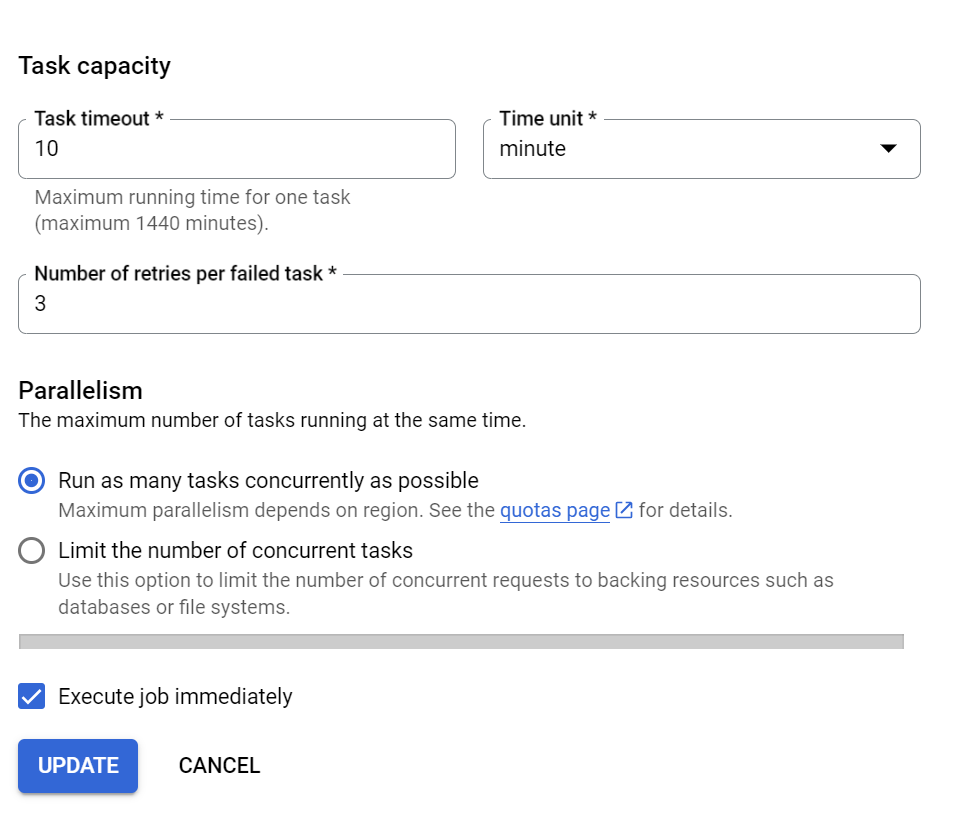
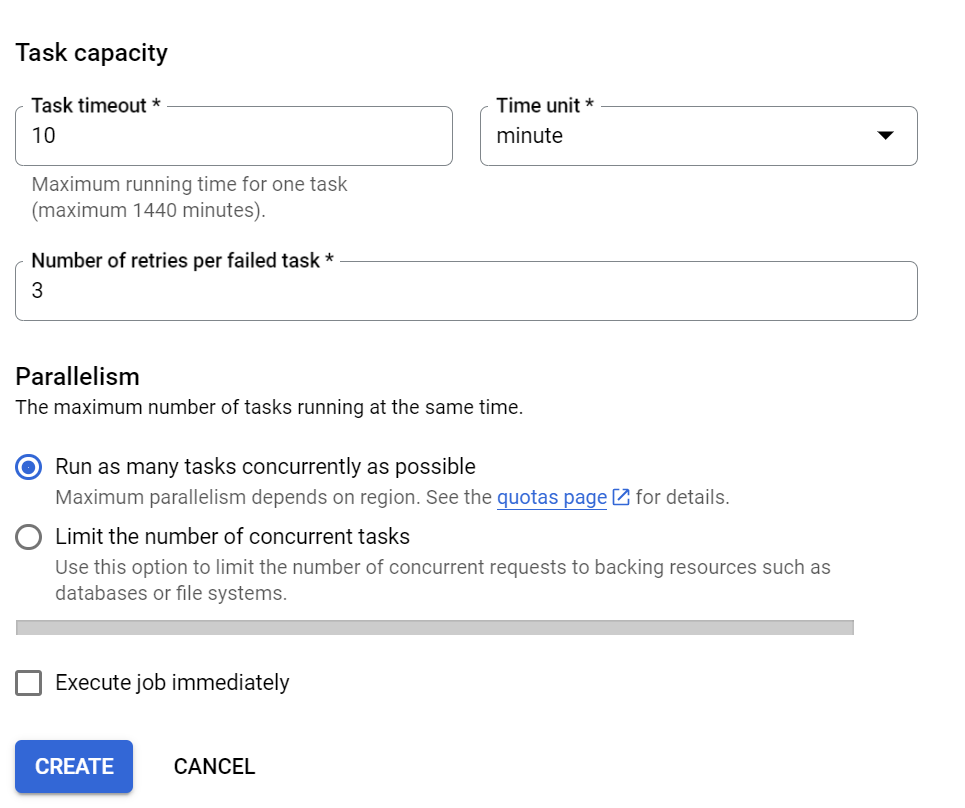
fixed one image

diff --git a/custom_dc/data_cloud.md b/custom_dc/data_cloud.md
@@ -97,15 +97,15 @@ Now set environment variables:
 1. Click the **Variables and Secrets** tab.
 1. Click **Add variable**.
 1. Add names and values for the following environment variables:
-- `USE_CLOUDSQL`: Set to `true`.
-- `DC_API_KEY`: Set to your API key.
-- `INPUT_DIR`: Set to the Cloud Storage bucket and input folder that you created in step 2 above. 
-- `OUTPUT_DIR`: Set to the Cloud Storage bucket (and, optionally, output folder) that you created in step 2 above. If you didn't create a separate folder for output, specify the same folder as the `INPUT_DIR`.
-- `CLOUDSQL_INSTANCE`: Set to the full connection name of the instance you created in step 3 above.
-- `DB_USER`: Set to a user you configured when you created the instance in step 3, or to `root` if you didn't create a new user.
-- `DB_PASS`: Set to the user's or root password you configured when you created the instance in step 3.
-- `DB_NAME`: Only set this if you configured the database name to something other than `datacommons`.
-1. Click **Done**.
+   - `USE_CLOUDSQL`: Set to `true`.
+   - `DC_API_KEY`: Set to your API key.
+   - `INPUT_DIR`: Set to the Cloud Storage bucket and input folder that you created in step 2 above. 
+   - `OUTPUT_DIR`: Set to the Cloud Storage bucket (and, optionally, output folder) that you created in step 2 above. If you didn't create a separate folder for output, specify the same folder as the `INPUT_DIR`.
+   - `CLOUDSQL_INSTANCE`: Set to the full connection name of the instance you created in step 3 above.
+   - `DB_USER`: Set to a user you configured when you created the instance in step 3, or to `root` if you didn't create a new user.
+   - `DB_PASS`: Set to the user's or root password you configured when you created the instance in step 3.
+   - `DB_NAME`: Only set this if you configured the database name to something other than `datacommons`.
+1. When you finished, click **Done**.
 
    ![Cloud Run Job](/assets/images/custom_dc/gcp_screenshot3.png)
 
@@ -116,7 +116,7 @@ Finally, set the task options under **Task capacity**:
 
    ![Cloud Run Job](/assets/images/custom_dc/gcp_screenshot4.png)
 
-1. Click **Create** (but don't run it immediately).
+Click **Create** (but don't run it immediately).
 
 ## Manage your data
 
